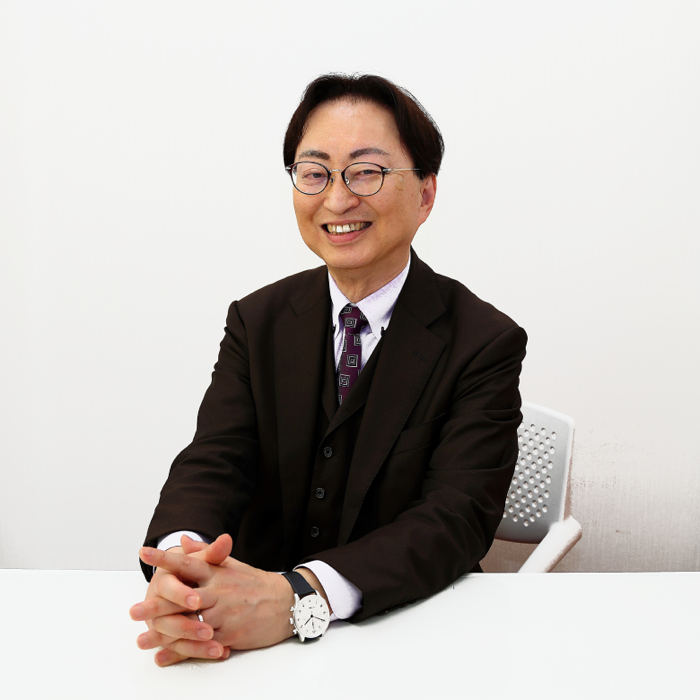
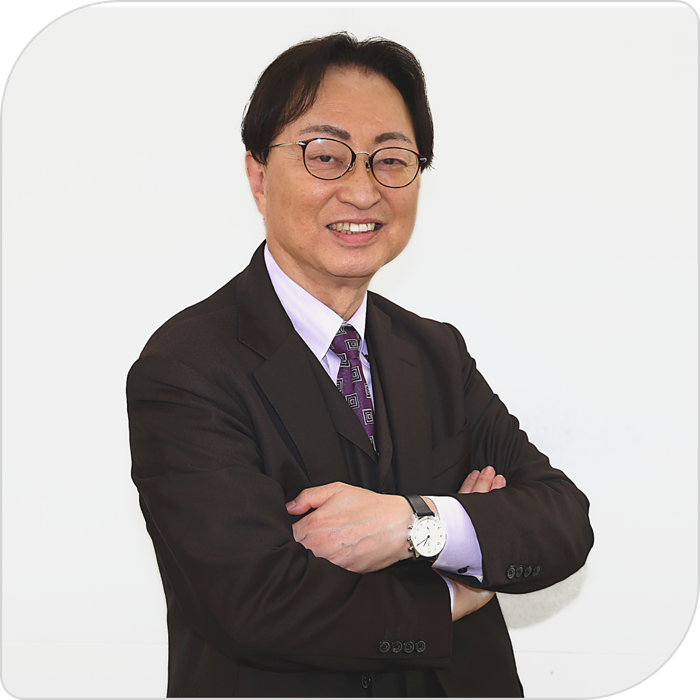
「自分らしく、働く。」画像差し替え・代表挨拶SP画像修正・沿革/勤務地の文言修正
- 「自分らしく、働く。」PC/SP画像を着席カットに差し替え
- 代表挨拶SP画像を立ちカット（正しい写真）に修正（前回の取り違え）
- 沿革: 2023年 川越2億円超の行を削除、2025年〜に年間売上3億円超を追加
- 募集要項の勤務地を徒歩30秒に統一

diff --git a/requirements.html b/requirements.html
@@ -231,7 +231,7 @@
               <dt>勤務地</dt>
               <dd>
                 きとみ税理士法人 川越本部事務所<br>
-                埼玉県川越市（本部）／東武東上線 川越市駅 徒歩1分
+                埼玉県川越市（本部）／東武東上線 川越市駅 徒歩30秒
                 <p class="job-note">※在宅勤務・直行直帰OK<br>※顧客の約6割が東京（都内在住の方も歓迎）</p>
               </dd>
             </div>
@@ -339,7 +339,7 @@
               <dd>
                 きとみ税理士法人 川越本部事務所<br>
                 埼玉県川越市六軒町１丁目１番地３ プルミエール川越２階<br>
-                川越市駅 徒歩1分
+                川越市駅 徒歩30秒
               </dd>
             </div>
             <div class="job-row">

diff --git a/about.html b/about.html
@@ -302,10 +302,6 @@
             <dd>毎年増収、法人顧問先を着実に拡大</dd>
           </div>
           <div class="company__row">
-            <dt>2023年</dt>
-            <dd>年間売上 川越本部のみで2億円超</dd>
-          </div>
-          <div class="company__row">
             <dt>2024年</dt>
             <dd>
               <ul class="company__list">
@@ -319,6 +315,7 @@
             <dd>
               <ul class="company__list">
                 <li>静岡事務所を開設</li>
+                <li>年間売上3億円超</li>
                 <li>全国6拠点・グループ総勢35名超へ成長</li>
                 <li>全国規模の税理士法人を目指し、拠点拡大中</li>
               </ul>
